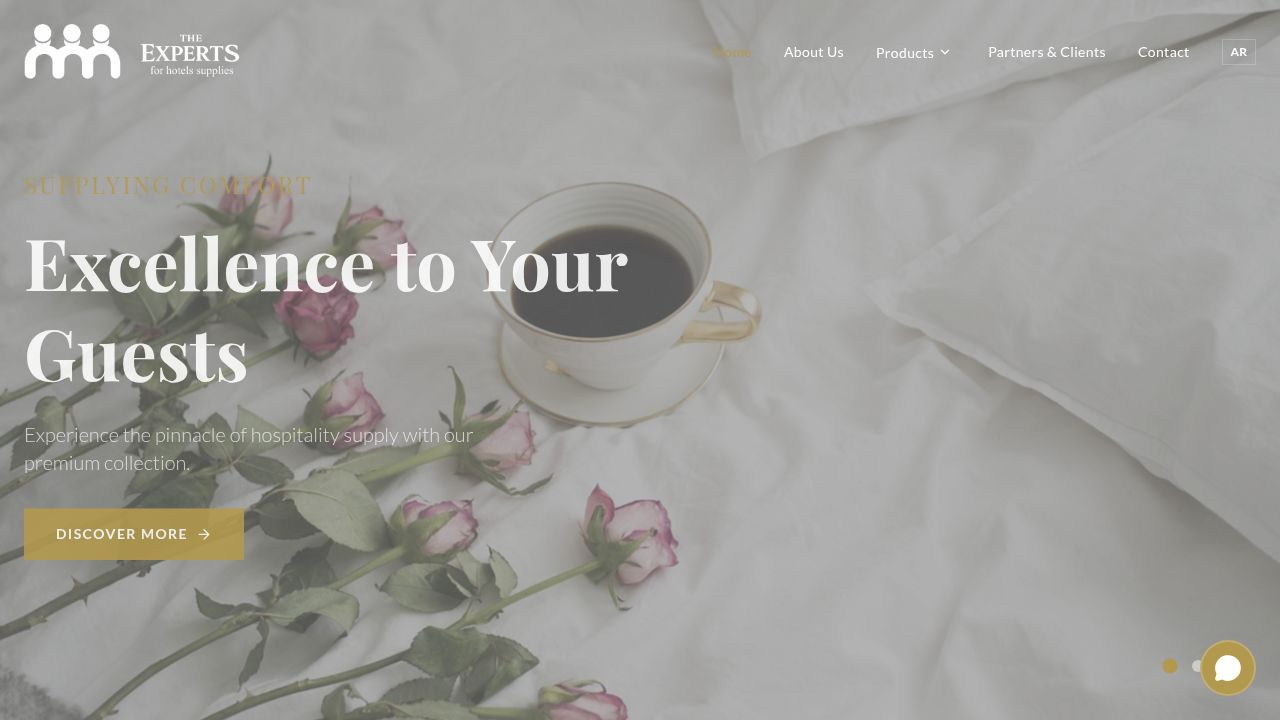
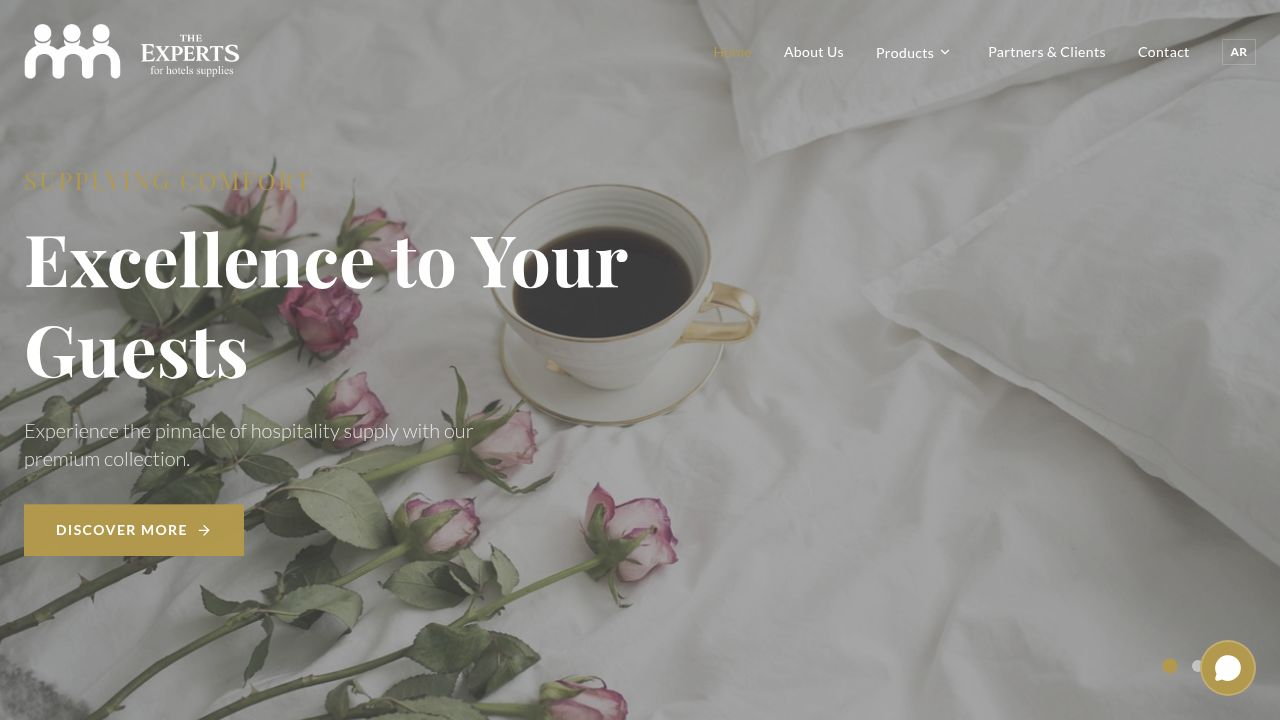
Update background color to pure white for improved loading on slow connections
Change the CSS background variable to 0 0% 100% and set the body background color inline to white in client/index.html.

Replit-Commit-Author: Agent
Replit-Commit-Session-Id: aea19ad8-8c8f-4409-b376-c5dc2508dbc0
Replit-Commit-Checkpoint-Type: full_checkpoint
Replit-Commit-Event-Id: 04134c9b-f5cc-4362-885f-60addc578a2a
Replit-Commit-Screenshot-Url: https://storage.googleapis.com/screenshot-production-us-central1/e24cf016-21c9-4399-a654-3af271d57383/aea19ad8-8c8f-4409-b376-c5dc2508dbc0/BLew7Ax
Replit-Helium-Checkpoint-Created: true

diff --git a/client/src/index.css b/client/src/index.css
@@ -28,8 +28,8 @@
 
 :root {
   /* Luxury Minimalist Palette - Restored */
-  /* Background: Very slightly off-white for richness */
-  --background: 0 0% 98%; 
+  /* Background: Pure white */
+  --background: 0 0% 100%; 
   /* Foreground: Soft black, not harsh #000 */
   --foreground: 220 10% 10%; 
 

diff --git a/client/index.html b/client/index.html
@@ -35,7 +35,7 @@
     }
     </script>
   </head>
-  <body>
+  <body style="background-color: white;">
     <div id="root"></div>
     <script type="module" src="/src/main.tsx"></script>
   </body>
